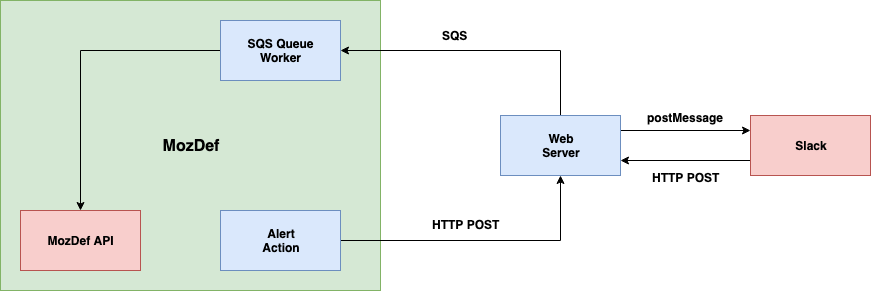
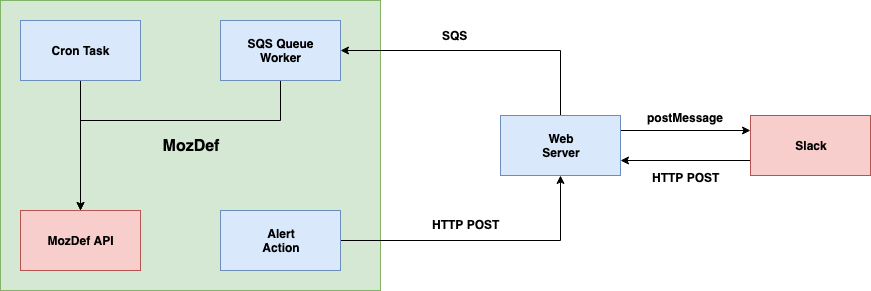
Describe a cron task component that will handle updating the statuses of duplicate alerts

Changed region(s): [[0.0, 0.0619, 0.248, 0.2784], [0.093, 0.4021, 0.31, 0.433]]

diff --git a/docs/specifications/v0_1.md b/docs/specifications/v0_1.md
@@ -106,6 +106,28 @@ mapping from user response to alert status.
 The implementation of this component will reside within the
 [MozDef](https://github.com/mozilla/mozdef) repository.
 
+### Cron Task
+
+Periodically, a [Cron](https://github.com/mozilla/MozDef/tree/master/cron) task
+will be run to:
+
+1. Retrieve `DuplicateChain`s from the MozDef API.
+2. Check, for each `(alert, user)` pair to see if there is an alert whose status
+has been updated based on the user's response via Slack.
+3. Update all of the statuses of the duplicate alerts found to match that of the
+original alert.
+
+This process has the result of effectively "replaying" a user's response to one
+alert so that it is not necessary to message them about each duplicate alert
+received within some timeframe.  If, for example, a user were repeatedly SSHing
+to a sensitive host as `root` to perform maintenance, they should only receive
+a message about the first alert.  After responding to the first message and for
+a brief time afterwards, the cron task assumes the same response would apply to
+any duplicate alerts triggering the alert action component.
+
+The implementation of this component will reside within the
+[MozDef](https://github.com/mozilla/mozdef) repository.
+
 ## Additional Requirements
 
 ### MozDef REST API Endpoint
